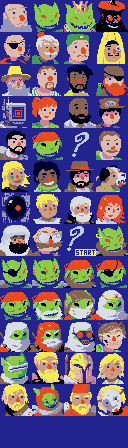
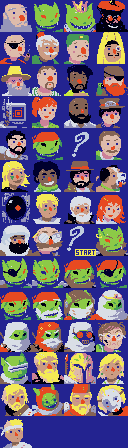
replace chauffeur quest for sylph faction

Changed region(s): [[0.0, 0.9375, 0.25, 1.0]]

diff --git a/source/data/character_art.h b/source/data/character_art.h
@@ -9,7 +9,7 @@
 //	+ 896 tiles Metatiled by 4x4 not compressed
 //	Total size: 32 + 28672 = 28704
 //
-//	Time-stamp: 2025-12-04, 17:54:26
+//	Time-stamp: 2025-12-07, 07:50:30
 //	Exported by Cearn's GBA Image Transmogrifier, v0.9.2
 //	( http://www.coranac.com/projects/#grit )
 //

diff --git a/source/skyland/scene/crewStatsScene.cpp b/source/skyland/scene/crewStatsScene.cpp
@@ -252,7 +252,7 @@ static constexpr u8 goblin_icons[] =
 
 
 
-static constexpr u8 sylph_icons[] = {48, 49, 21, 26, 46, 47, 51};
+static constexpr u8 sylph_icons[] = {48, 49, 21, 26, 46, 47, 51, 53};
 
 
 
